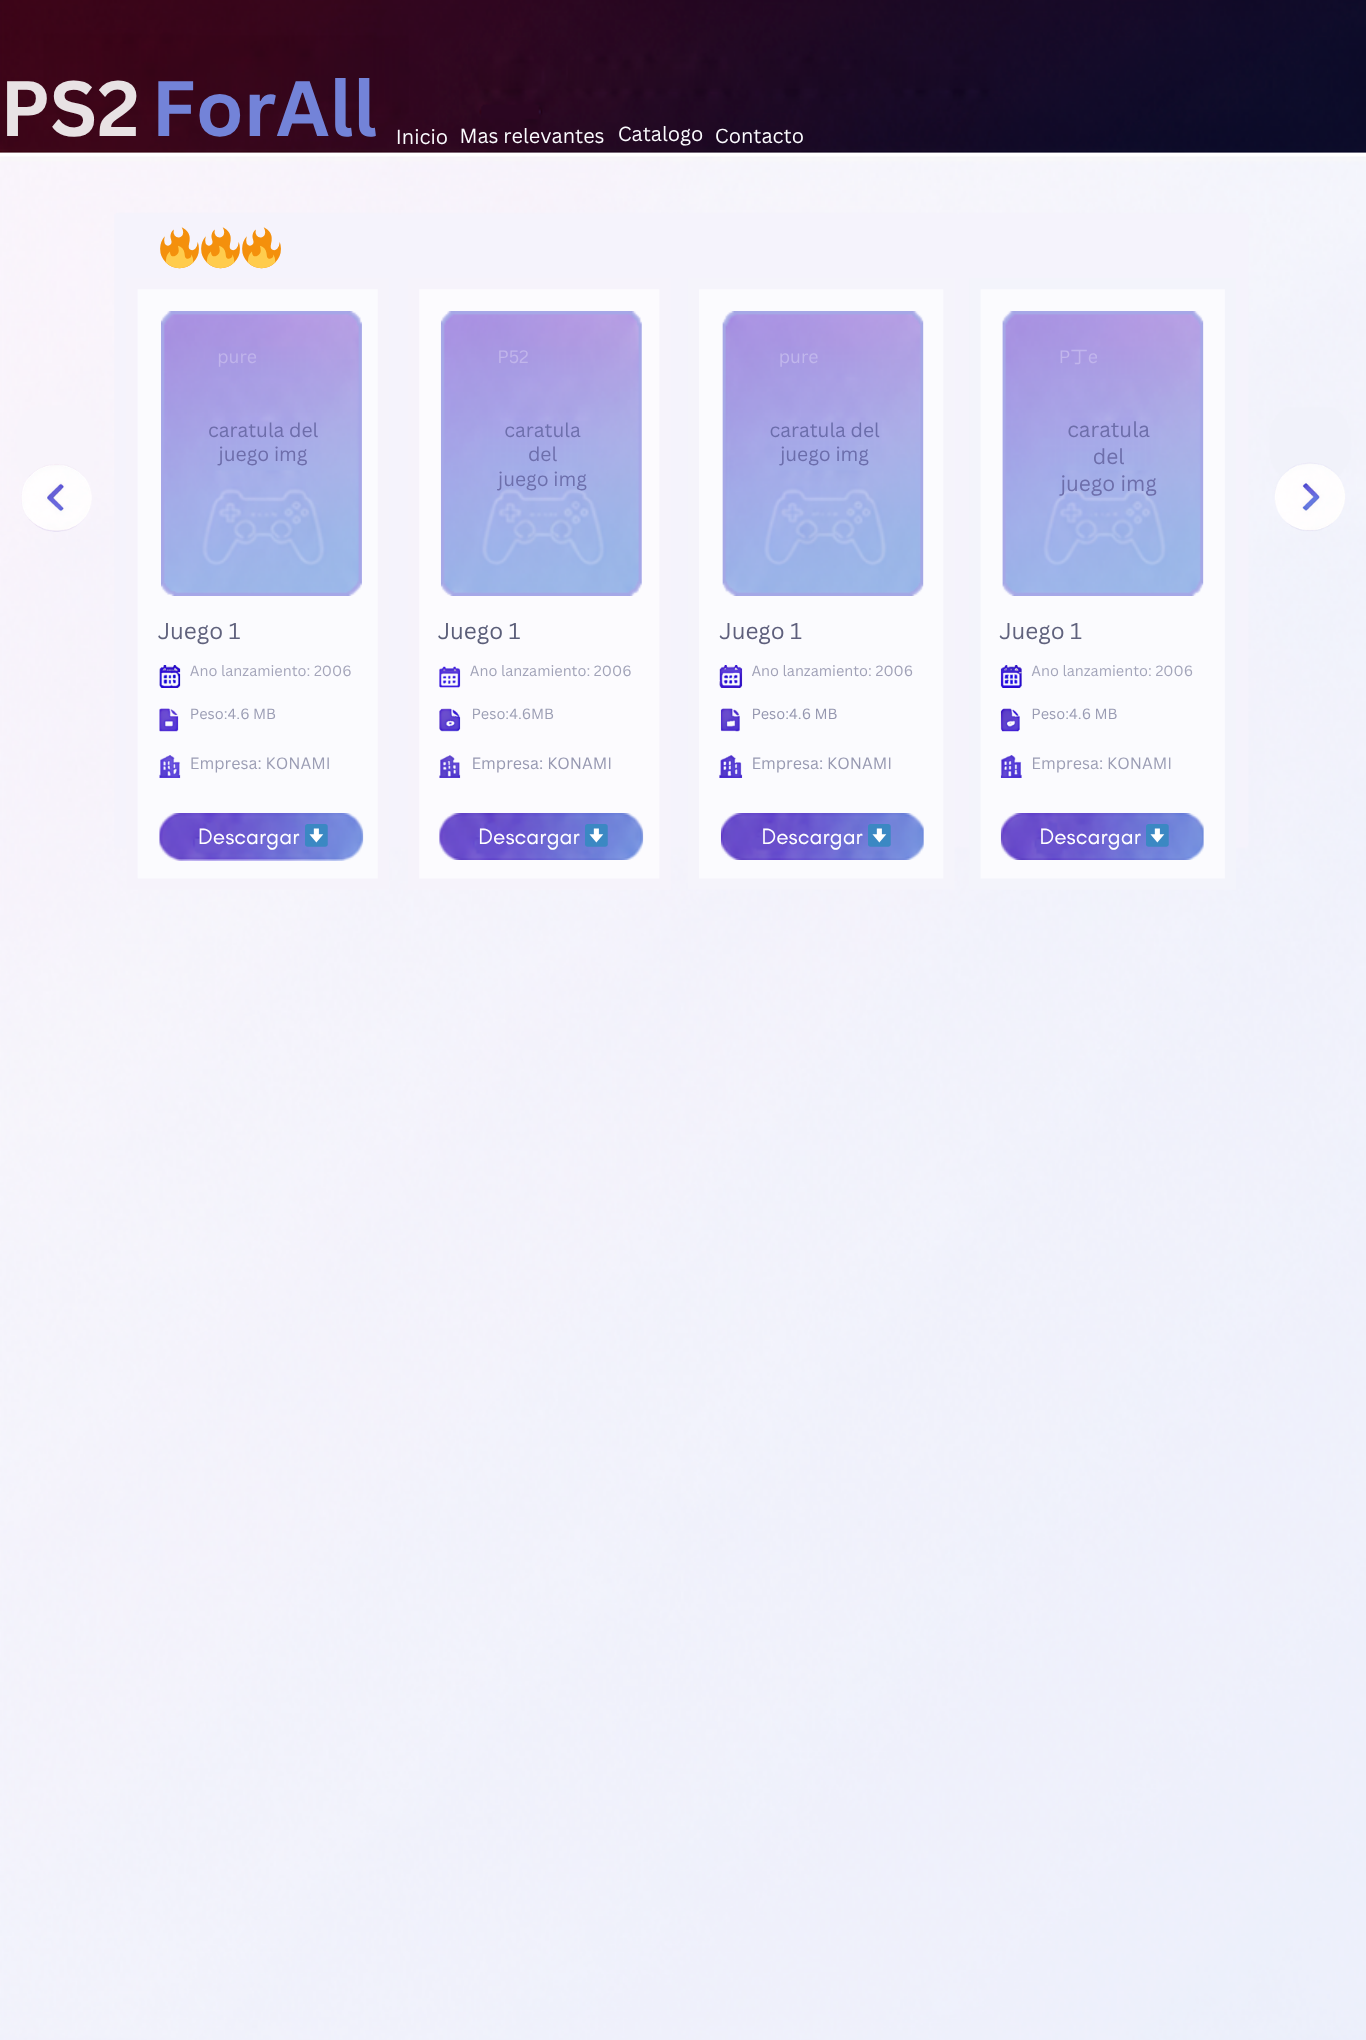
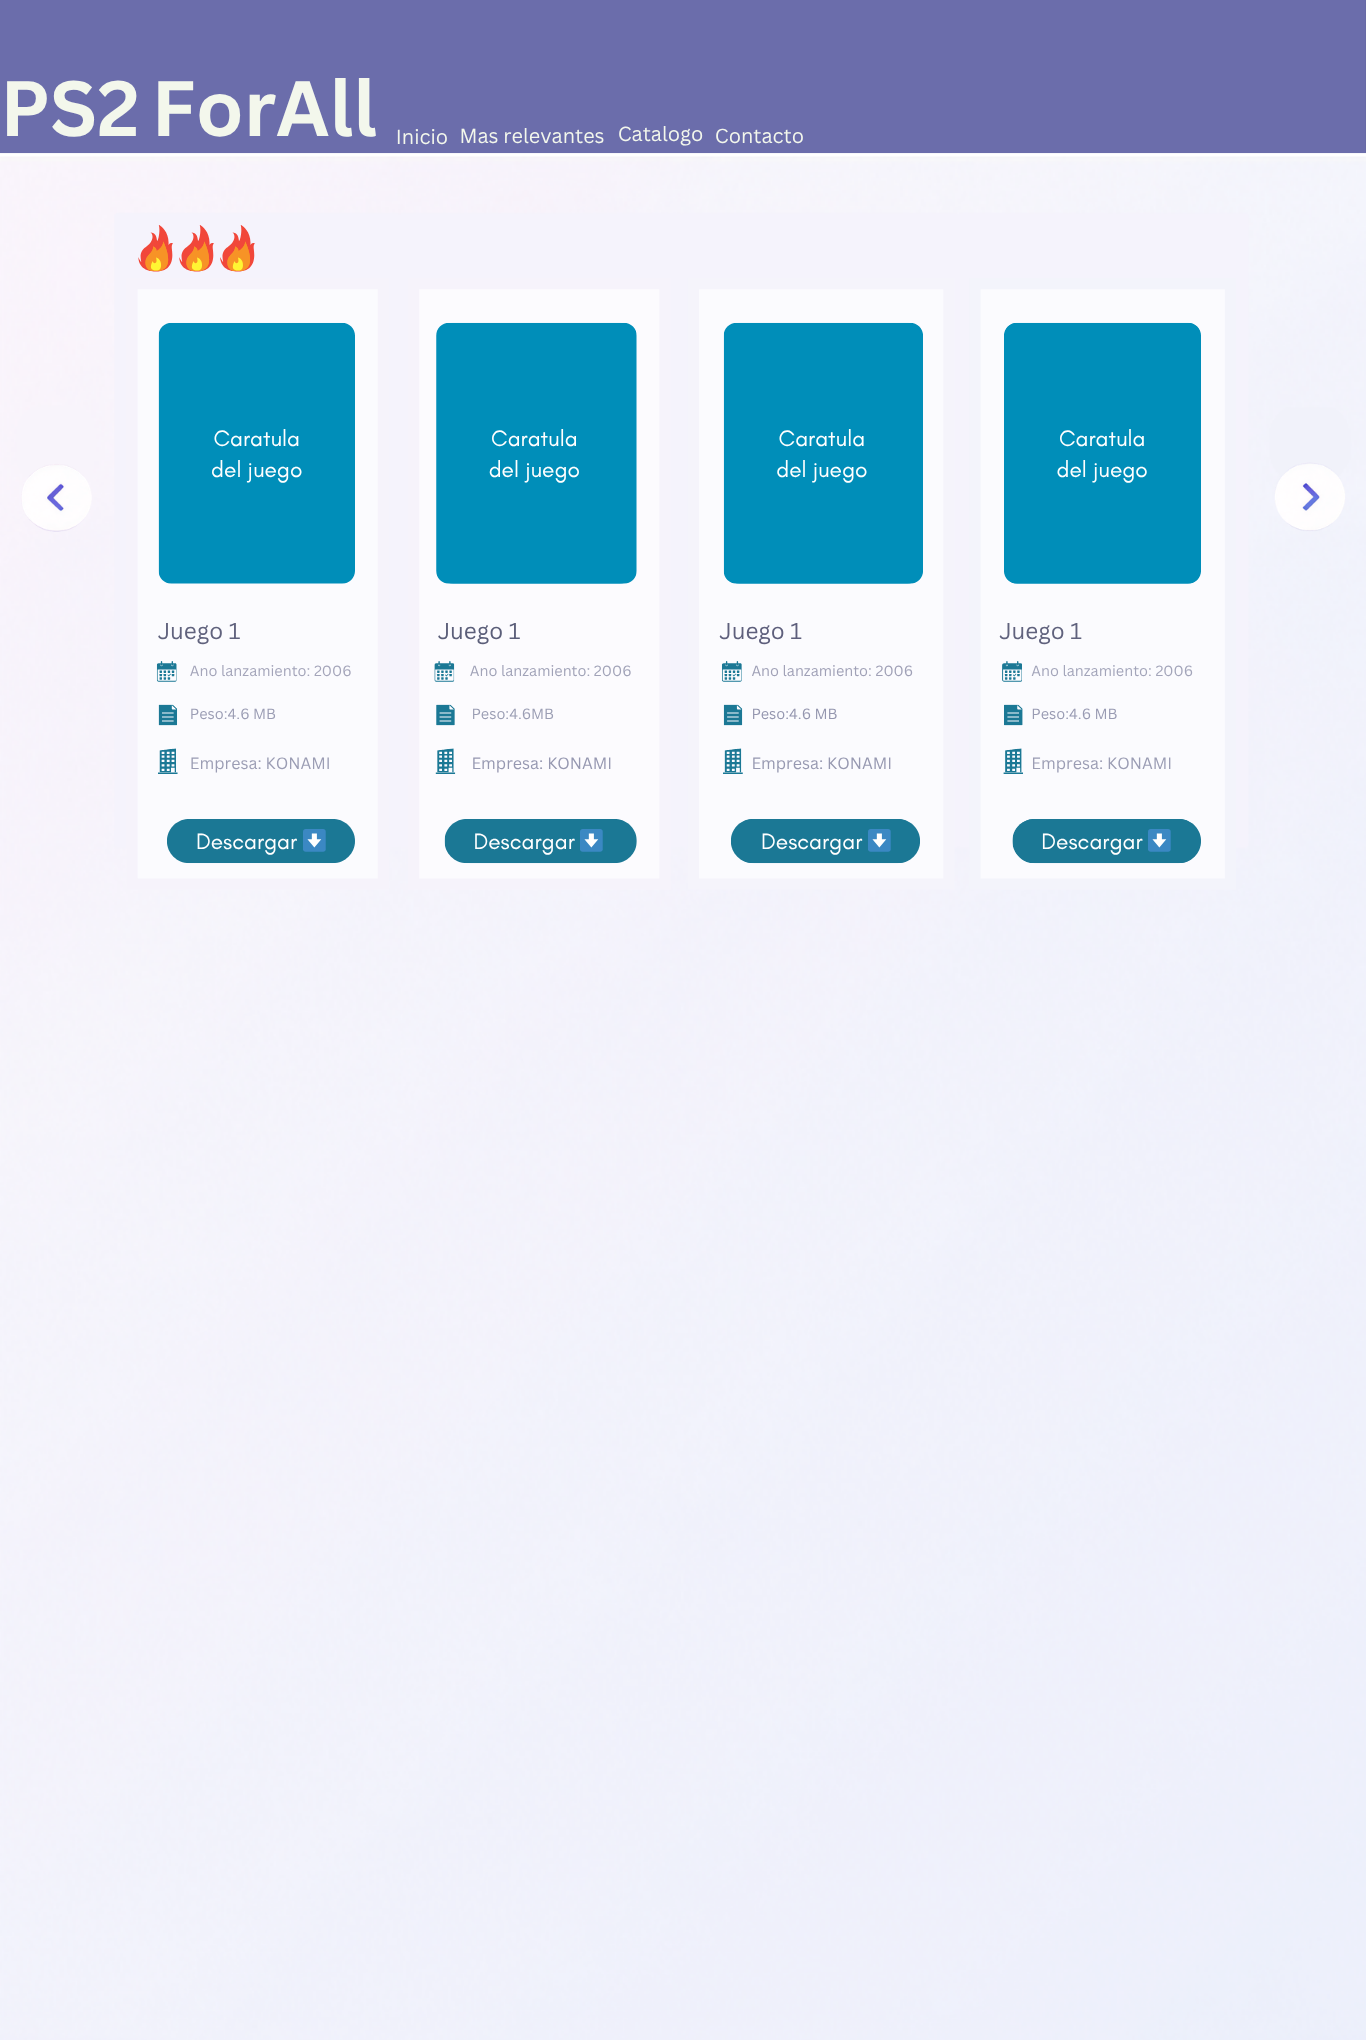
cambio de maquetado y primer index

diff --git a/index.html b/index.html
@@ -1,0 +1,78 @@
+<!DOCTYPE html>
+<html lang="en">
+<head>
+    <meta charset="UTF-8">
+    <meta name="viewport" content="width=device-width, initial-scale=1.0">
+    <link rel="preconnect" href="https://fonts.googleapis.com">
+    <link rel="preconnect" href="https://fonts.gstatic.com" crossorigin>
+    <link href="https://fonts.googleapis.com/css2?family=Play:wght@400;700&display=swap" rel="stylesheet">
+    <link rel="stylesheet" href="css/styles.css">
+    <title>PS - ForAll</title>
+</head>
+    <body>
+        <header>
+            <div class="encabezado">
+                <h1 class="play-regular">PS2 ForAll</h1>
+
+                <nav class="indice-encabezado">
+                <a class="indice play-regular" href="index.html">Inicio</a>
+                <a class="indice play-regular" href="">Mas relevantes</a>
+                <a class="indice play-regular" href="">Catálogo</a>
+                <a class="indice play-regular" href="">Contacto</a>
+                </nav>
+                
+            </div>
+        </header>
+
+        <main>
+            <div class="seccion-on-fire">
+                <h2 class="encabezado-de-seccion">🔥🔥🔥</h2>
+                <div class="contenedor-carta">
+                    <div class="carta">
+                        <img src="https://placehold.co/160x200" alt="caratula-juego">
+                        <h3>Titulo del juego</h3>
+                        <div class="datos-carta">
+                            <p><b>Lanzamiento:</b> 2006</p>
+                            <p><b>Peso: </b> 2 GB</p>
+                            <p><b>Empresa:</b> KONAMI</p>
+                        </div>                 
+                    </div>
+
+                    <div class="carta">
+                        <img src="https://placehold.co/160x200" alt="caratula-juego">
+                        <h3>Titulo del juego</h3>
+                        <div class="datos-carta">
+                            <p><b>Lanzamiento:</b> 2006</p>
+                            <p><b>Peso: </b> 2 GB</p>
+                            <p><b>Empresa:</b> KONAMI</p>
+                        </div>   
+                    </div>
+
+                    <div class="carta">
+                        <img src="https://placehold.co/160x200" alt="caratula-juego">
+                        <h3>Titulo del juego</h3>
+                        <div class="datos-carta">
+                            <p><b>Lanzamiento:</b> 2006</p>
+                            <p><b>Peso: </b> 2 GB</p>
+                            <p><b>Empresa:</b> KONAMI</p>
+                        </div>  
+                    </div>
+
+                    <div class="carta">
+                        <img src="https://placehold.co/160x200" alt="caratula-juego">
+                        <h3>Titulo del juego</h3>
+                        <div class="datos-carta">
+                            <p><b>Lanzamiento:</b> 2006</p>
+                            <p><b>Peso: </b> 2 GB</p>
+                            <p><b>Empresa:</b> KONAMI</p>
+                        </div>   
+                    </div>
+                </div>
+            </div>
+        </main>
+
+        <footer>
+
+        </footer>
+    </body>
+</html>
